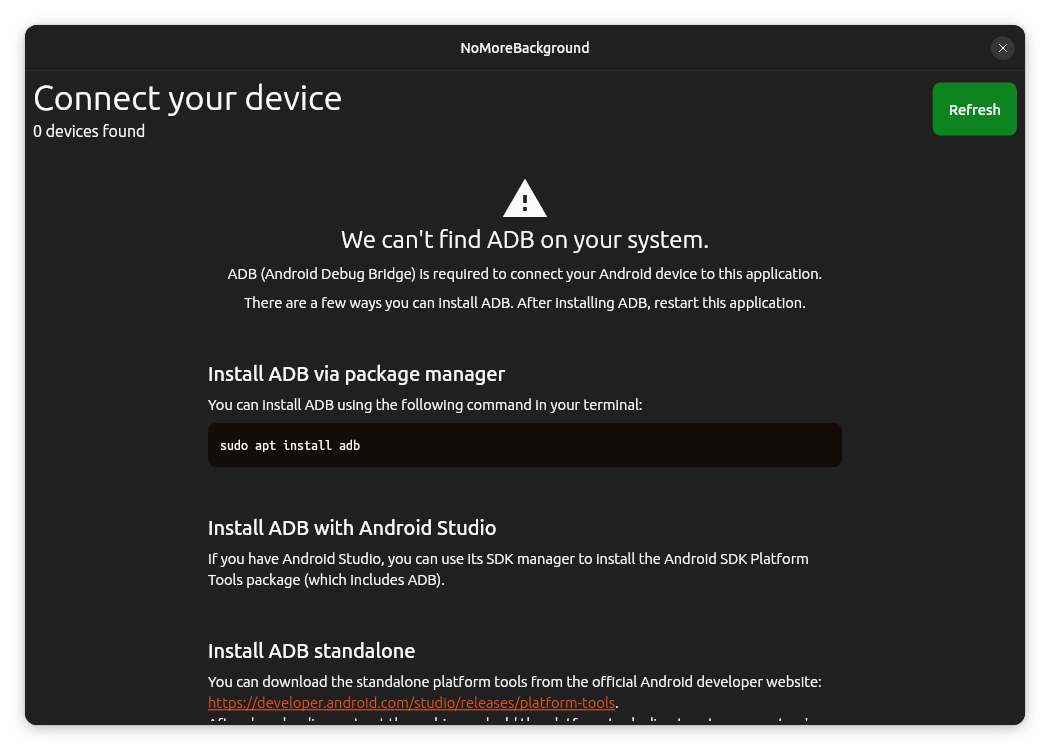
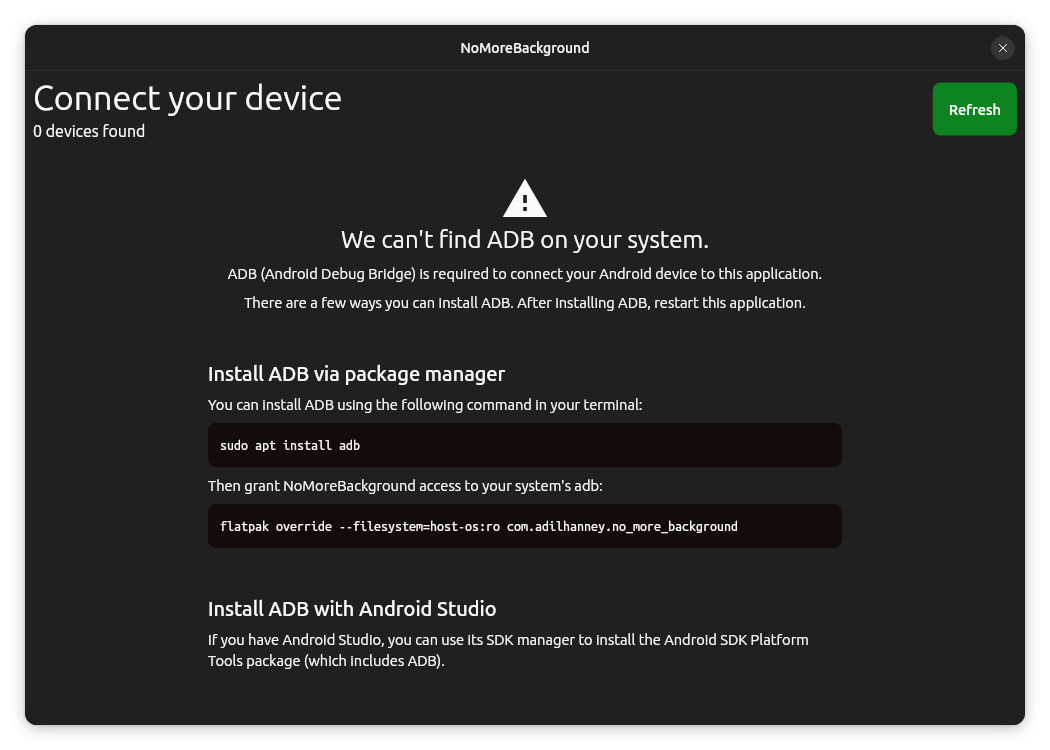
feat: add support for flatpak host-os

Changed region(s): [[0.1829, 0.644, 0.7924, 0.9507]]

diff --git a/lib/components/connect_page_content_no_adb.dart b/lib/components/connect_page_content_no_adb.dart
@@ -4,7 +4,6 @@ import 'package:flutter/gestures.dart';
 import 'package:flutter/material.dart';
 import 'package:platform_linux/platform.dart';
 import 'package:url_launcher/url_launcher_string.dart';
-import 'package:yaru/yaru.dart';
 
 class ConnectPageContentNoAdb extends StatelessWidget {
   static const platform = LocalPlatform();
@@ -76,21 +75,15 @@ class ConnectPageContentNoAdb extends StatelessWidget {
             'You can install ADB using the following command in your terminal:',
           ),
           SizedBox(height: 8),
-          Container(
-            padding: EdgeInsets.all(12),
-            decoration: BoxDecoration(
-              color: theme.colorScheme.surfaceContainerLowest,
-              borderRadius: BorderRadius.circular(8),
+          _TerminalCommand(installAdbCommand!),
+          if (theme.platform == .linux) ...[
+            SizedBox(height: 8),
+            Text('Then grant NoMoreBackground access to your system\'s adb:'),
+            SizedBox(height: 8),
+            _TerminalCommand(
+              'flatpak override --filesystem=host-os:ro com.adilhanney.no_more_background',
             ),
-            child: SelectableText(
-              installAdbCommand!,
-              style: TextStyle(
-                fontFamily: 'UbuntuMono',
-                package: 'yaru',
-                fontSize: 14,
-              ),
-            ),
-          ),
+          ],
         ],
         SizedBox(height: 48),
         Text(
@@ -137,6 +130,31 @@ class ConnectPageContentNoAdb extends StatelessWidget {
           'directory to your system\'s PATH environment variable.',
         ),
       ],
+    );
+  }
+}
+
+class _TerminalCommand extends StatelessWidget {
+  const _TerminalCommand(this.command);
+  final String command;
+
+  @override
+  Widget build(BuildContext context) {
+    final theme = Theme.of(context);
+    return Container(
+      padding: EdgeInsets.all(12),
+      decoration: BoxDecoration(
+        color: theme.colorScheme.surfaceContainerLowest,
+        borderRadius: BorderRadius.circular(8),
+      ),
+      child: SelectableText(
+        command,
+        style: TextStyle(
+          fontFamily: 'UbuntuMono',
+          package: 'yaru',
+          fontSize: 14,
+        ),
+      ),
     );
   }
 }

diff --git a/lib/compute/adb.dart b/lib/compute/adb.dart
@@ -10,17 +10,28 @@ abstract class Adb {
   static Future<void> _findAdb() async {
     if (impl != null) return;
 
+    // Flatpak mounts the host-os at /run/host, so try there.
+    if (Platform.isLinux) {
+      final file = File('/run/host/usr/bin/adb');
+      if (file.existsSync()) {
+        impl = AdbImpl(file.path);
+        debugPrint('Using adb at ${impl!.exe}');
+        return;
+      }
+    }
+
+    // Otherwise, try to find adb in PATH.
     final result = Platform.isWindows
         ? await Process.run('where', ['adb'], runInShell: true)
         : await Process.run('which', ['adb'], runInShell: true);
     final stdout = (result.stdout as String).trim();
-    if (result.exitCode != 0) {
-      final stderr = (result.stderr as String).trim();
-      debugPrint('Unable to find adb: $stderr, $stdout');
+    if (result.exitCode == 0) {
+      impl = AdbImpl(stdout);
+      debugPrint('Using adb at ${impl!.exe}');
       return;
     }
-    impl = AdbImpl(stdout);
-    debugPrint('Using adb at ${impl!.exe}');
+
+    debugPrint('Unable to find adb, PATH=${Platform.environment['PATH']}');
   }
 
   static Future<void> ensureInitialized() async {
